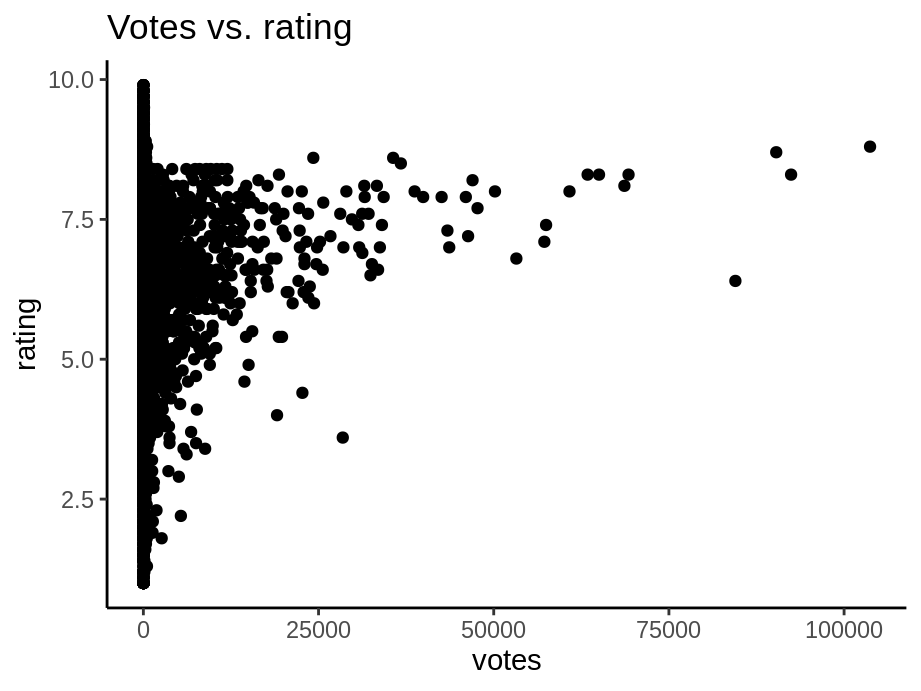
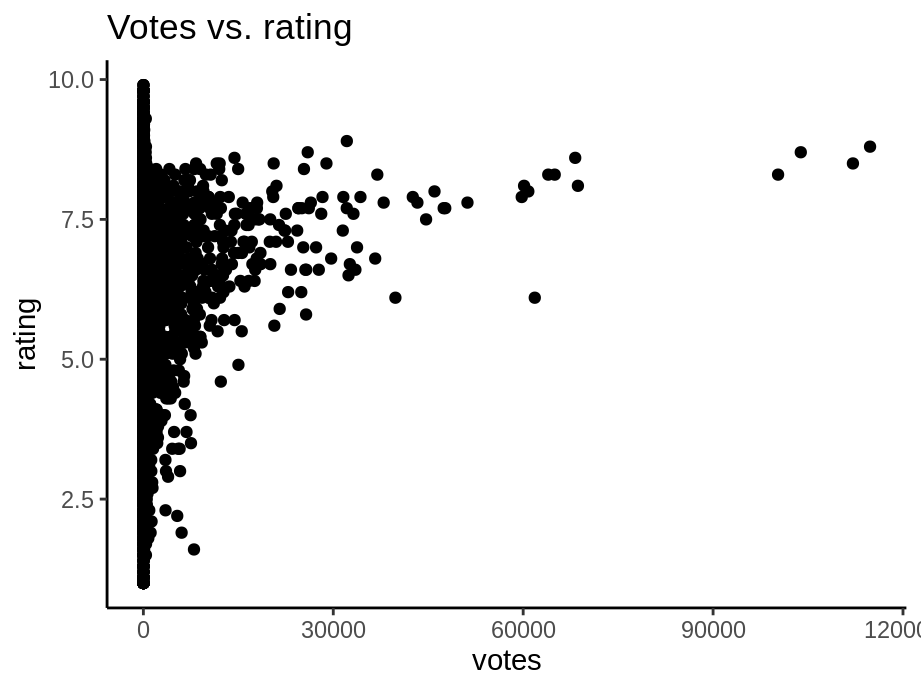
Deploying to gh-pages from @ jtr13/edav2@4376c921bf93b18e32f2f8d7158f47252f9471a0 🚀

diff --git a/two-continuous-variables.html b/two-continuous-variables.html
@@ -271,7 +271,7 @@ code span.wa { color: #60a0b0; font-weight: bold; font-style: italic; } /* Warni
 <div class="sourceCode" id="cb55"><pre class="sourceCode r"><code class="sourceCode r"><span id="cb55-1"><a href="two-continuous-variables.html#cb55-1"></a><span class="kw">library</span>(dplyr)</span>
 <span id="cb55-2"><a href="two-continuous-variables.html#cb55-2"></a><span class="kw">library</span>(ggplot2movies)</span>
 <span id="cb55-3"><a href="two-continuous-variables.html#cb55-3"></a></span>
-<span id="cb55-4"><a href="two-continuous-variables.html#cb55-4"></a>sample &lt;-<span class="st"> </span><span class="kw">sample_n</span>(movies,<span class="fl">0.2</span><span class="op">*</span><span class="kw">nrow</span>(movies))</span>
+<span id="cb55-4"><a href="two-continuous-variables.html#cb55-4"></a>sample &lt;-<span class="st"> </span><span class="kw">slice_sample</span>(movies,<span class="dt">prop=</span><span class="fl">0.2</span>)</span>
 <span id="cb55-5"><a href="two-continuous-variables.html#cb55-5"></a></span>
 <span id="cb55-6"><a href="two-continuous-variables.html#cb55-6"></a><span class="kw">ggplot</span>(sample,<span class="kw">aes</span>(<span class="dt">x=</span>votes,<span class="dt">y=</span>rating)) <span class="op">+</span></span>
 <span id="cb55-7"><a href="two-continuous-variables.html#cb55-7"></a><span class="st">  </span><span class="kw">geom_point</span>() <span class="op">+</span></span>
@@ -321,14 +321,14 @@ code span.wa { color: #60a0b0; font-weight: bold; font-style: italic; } /* Warni
 </ul>
 <div class="sourceCode" id="cb57"><pre class="sourceCode r"><code class="sourceCode r"><span id="cb57-1"><a href="two-continuous-variables.html#cb57-1"></a><span class="kw">library</span>(plotly)</span>
 <span id="cb57-2"><a href="two-continuous-variables.html#cb57-2"></a></span>
-<span id="cb57-3"><a href="two-continuous-variables.html#cb57-3"></a>sample2 &lt;-<span class="st"> </span><span class="kw">sample_n</span>(movies,<span class="fl">0.01</span><span class="op">*</span><span class="kw">nrow</span>(movies)) <span class="op">%&gt;%</span></span>
+<span id="cb57-3"><a href="two-continuous-variables.html#cb57-3"></a>sample2 &lt;-<span class="st"> </span><span class="kw">slice_sample</span>(movies,<span class="dt">prop=</span><span class="fl">0.01</span>) <span class="op">%&gt;%</span></span>
 <span id="cb57-4"><a href="two-continuous-variables.html#cb57-4"></a><span class="st">  </span><span class="kw">filter</span>(year <span class="op">&gt;</span><span class="st"> </span><span class="dv">2000</span>)</span>
 <span id="cb57-5"><a href="two-continuous-variables.html#cb57-5"></a></span>
 <span id="cb57-6"><a href="two-continuous-variables.html#cb57-6"></a><span class="kw">plot_ly</span>(sample2, <span class="dt">x =</span> <span class="op">~</span>votes, <span class="dt">y =</span> <span class="op">~</span>rating,</span>
 <span id="cb57-7"><a href="two-continuous-variables.html#cb57-7"></a>        <span class="dt">color =</span> <span class="op">~</span><span class="kw">as.factor</span>(year), <span class="dt">text=</span> <span class="op">~</span>title,</span>
 <span id="cb57-8"><a href="two-continuous-variables.html#cb57-8"></a>        <span class="dt">hoverinfo =</span> <span class="st">&#39;text&#39;</span>) </span></code></pre></div>
 <div id="htmlwidget-8d30fee997fafa49e2e7" style="width:576px;height:432px;" class="plotly html-widget"></div>
-<script type="application/json" data-for="htmlwidget-8d30fee997fafa49e2e7">{"x":{"visdat":{"28bd7a15e770":["function () ","plotlyVisDat"]},"cur_data":"28bd7a15e770","attrs":{"28bd7a15e770":{"x":{},"y":{},"text":{},"hoverinfo":"text","color":{},"alpha_stroke":1,"sizes":[10,100],"spans":[1,20]}},"layout":{"margin":{"b":40,"l":60,"t":25,"r":10},"xaxis":{"domain":[0,1],"automargin":true,"title":"votes"},"yaxis":{"domain":[0,1],"automargin":true,"title":"rating"},"hovermode":"closest","showlegend":true},"source":"A","config":{"modeBarButtonsToAdd":["hoverclosest","hovercompare"],"showSendToCloud":false},"data":[{"x":[12,26,6,7,42,60,73,18,311,59,37,37,11,12,11,115,47,14,219],"y":[6.4,5.9,5.7,6.6,6.3,4.5,6.9,8.3,1.8,6.3,3.2,3.3,8.7,8.4,6.6,3.7,6.9,8.6,6],"text":["On the Fringe","Altyn Kyrghol","Guggen - Du store gauda","Georgie Girl","Abrafaxe - Unter schwarzer Flagge, Die","Un aller simple","Flock, The","Hr. Boe & Co.'s Anxiety","Ponterosa","Ngo dik yeh man tung hok","Bug Off!","We Sold Our Souls for Rock 'n Roll","Ladyporn","My Dark Days","Delitto impossibile, Un","Killer Bud","Cutting Room, The","Echo","Last Minute, The"],"hoverinfo":["text","text","text","text","text","text","text","text","text","text","text","text","text","text","text","text","text","text","text"],"type":"scatter","mode":"markers","name":"2001","marker":{"color":"rgba(102,194,165,1)","line":{"color":"rgba(102,194,165,1)"}},"textfont":{"color":"rgba(102,194,165,1)"},"error_y":{"color":"rgba(102,194,165,1)"},"error_x":{"color":"rgba(102,194,165,1)"},"line":{"color":"rgba(102,194,165,1)"},"xaxis":"x","yaxis":"y","frame":null},{"x":[8,22,243,62,29,232,48,93,1250,13,34,90,1730],"y":[6.2,5.6,6.9,7.4,5.1,6.7,4.8,4.7,5.4,6.8,7.6,6.8,6.7],"text":["Love Is a Treasure","Chinese muur, De","Shin jingi no hakaba","Tomorrow La Scala!","Legend of Razorback, The","Imbalsamatore, L'","Expecting","Wish You Were Dead","All About the Benjamins","Condemned","Soap Girl","Telling Nicholas","Returner"],"hoverinfo":["text","text","text","text","text","text","text","text","text","text","text","text","text"],"type":"scatter","mode":"markers","name":"2002","marker":{"color":"rgba(252,141,98,1)","line":{"color":"rgba(252,141,98,1)"}},"textfont":{"color":"rgba(252,141,98,1)"},"error_y":{"color":"rgba(252,141,98,1)"},"error_x":{"color":"rgba(252,141,98,1)"},"line":{"color":"rgba(252,141,98,1)"},"xaxis":"x","yaxis":"y","frame":null},{"x":[1213,13,8,12,5,1295,8,8,35,27,24,21,25,5,58,90,939,9,43],"y":[6.1,6.9,5.2,5.5,6.4,5.7,6.7,8,4.7,5,6,7.3,7.7,8.9,4.2,4.2,7.4,6.2,5.7],"text":["Sylvia","Pull Out","Corner of Your Eye","Libiomfi","Good Boy","It's All About Love","Cameras Take Five","Aviv","Honeymooners, The","Hoodlum & Son","Teoriya zapoya","Wo he ba ba","Colorforms","Night Light","Bloom","Claustrophobia","Van God Los","Tancul","Yeokjeone sanda"],"hoverinfo":["text","text","text","text","text","text","text","text","text","text","text","text","text","text","text","text","text","text","text"],"type":"scatter","mode":"markers","name":"2003","marker":{"color":"rgba(141,160,203,1)","line":{"color":"rgba(141,160,203,1)"}},"textfont":{"color":"rgba(141,160,203,1)"},"error_y":{"color":"rgba(141,160,203,1)"},"error_x":{"color":"rgba(141,160,203,1)"},"line":{"color":"rgba(141,160,203,1)"},"xaxis":"x","yaxis":"y","frame":null},{"x":[5,64,2349,6,610,8,7,45,13,8,6,29,165,208,3492,2398,25],"y":[8.8,6.9,5.7,8.8,6,5.5,7.6,1.7,7.4,7.8,5.7,6.4,6.3,5.1,6,5.7,6.8],"text":["In Justice","Nomi Song, The","Laws of Attraction","Life and Times of MC Beer Bong, The","Ginger Snaps Back: The Beginning","Camp X-Ray: Ghosts of Guantanamo","Alanis Morissette: We're with the Band","Death 4 Told","Hochbetrieb","Old Man and the Studio, The","Huapango","Cou de la girafe, Le","06/05","Romasanta","Alfie","Raising Helen","Sombra dolorosa"],"hoverinfo":["text","text","text","text","text","text","text","text","text","text","text","text","text","text","text","text","text"],"type":"scatter","mode":"markers","name":"2004","marker":{"color":"rgba(231,138,195,1)","line":{"color":"rgba(231,138,195,1)"}},"textfont":{"color":"rgba(231,138,195,1)"},"error_y":{"color":"rgba(231,138,195,1)"},"error_x":{"color":"rgba(231,138,195,1)"},"line":{"color":"rgba(231,138,195,1)"},"xaxis":"x","yaxis":"y","frame":null},{"x":[6,10,15],"y":[6.7,7.7,5.1],"text":["Year of Living Vicariously, The","Bloodshed","Chicken Tikka Masala"],"hoverinfo":["text","text","text"],"type":"scatter","mode":"markers","name":"2005","marker":{"color":"rgba(166,216,84,1)","line":{"color":"rgba(166,216,84,1)"}},"textfont":{"color":"rgba(166,216,84,1)"},"error_y":{"color":"rgba(166,216,84,1)"},"error_x":{"color":"rgba(166,216,84,1)"},"line":{"color":"rgba(166,216,84,1)"},"xaxis":"x","yaxis":"y","frame":null}],"highlight":{"on":"plotly_click","persistent":false,"dynamic":false,"selectize":false,"opacityDim":0.2,"selected":{"opacity":1},"debounce":0},"shinyEvents":["plotly_hover","plotly_click","plotly_selected","plotly_relayout","plotly_brushed","plotly_brushing","plotly_clickannotation","plotly_doubleclick","plotly_deselect","plotly_afterplot","plotly_sunburstclick"],"base_url":"https://plot.ly"},"evals":[],"jsHooks":[]}</script>
+<script type="application/json" data-for="htmlwidget-8d30fee997fafa49e2e7">{"x":{"visdat":{"28186f8204b":["function () ","plotlyVisDat"]},"cur_data":"28186f8204b","attrs":{"28186f8204b":{"x":{},"y":{},"text":{},"hoverinfo":"text","color":{},"alpha_stroke":1,"sizes":[10,100],"spans":[1,20]}},"layout":{"margin":{"b":40,"l":60,"t":25,"r":10},"xaxis":{"domain":[0,1],"automargin":true,"title":"votes"},"yaxis":{"domain":[0,1],"automargin":true,"title":"rating"},"hovermode":"closest","showlegend":true},"source":"A","config":{"modeBarButtonsToAdd":["hoverclosest","hovercompare"],"showSendToCloud":false},"data":[{"x":[12,26,6,7,42,60,73,18,311,59,37,37,11,12,11,115,47,14,219],"y":[6.4,5.9,5.7,6.6,6.3,4.5,6.9,8.3,1.8,6.3,3.2,3.3,8.7,8.4,6.6,3.7,6.9,8.6,6],"text":["On the Fringe","Altyn Kyrghol","Guggen - Du store gauda","Georgie Girl","Abrafaxe - Unter schwarzer Flagge, Die","Un aller simple","Flock, The","Hr. Boe & Co.'s Anxiety","Ponterosa","Ngo dik yeh man tung hok","Bug Off!","We Sold Our Souls for Rock 'n Roll","Ladyporn","My Dark Days","Delitto impossibile, Un","Killer Bud","Cutting Room, The","Echo","Last Minute, The"],"hoverinfo":["text","text","text","text","text","text","text","text","text","text","text","text","text","text","text","text","text","text","text"],"type":"scatter","mode":"markers","name":"2001","marker":{"color":"rgba(102,194,165,1)","line":{"color":"rgba(102,194,165,1)"}},"textfont":{"color":"rgba(102,194,165,1)"},"error_y":{"color":"rgba(102,194,165,1)"},"error_x":{"color":"rgba(102,194,165,1)"},"line":{"color":"rgba(102,194,165,1)"},"xaxis":"x","yaxis":"y","frame":null},{"x":[8,22,243,62,29,232,48,93,1250,13,34,90,1730],"y":[6.2,5.6,6.9,7.4,5.1,6.7,4.8,4.7,5.4,6.8,7.6,6.8,6.7],"text":["Love Is a Treasure","Chinese muur, De","Shin jingi no hakaba","Tomorrow La Scala!","Legend of Razorback, The","Imbalsamatore, L'","Expecting","Wish You Were Dead","All About the Benjamins","Condemned","Soap Girl","Telling Nicholas","Returner"],"hoverinfo":["text","text","text","text","text","text","text","text","text","text","text","text","text"],"type":"scatter","mode":"markers","name":"2002","marker":{"color":"rgba(252,141,98,1)","line":{"color":"rgba(252,141,98,1)"}},"textfont":{"color":"rgba(252,141,98,1)"},"error_y":{"color":"rgba(252,141,98,1)"},"error_x":{"color":"rgba(252,141,98,1)"},"line":{"color":"rgba(252,141,98,1)"},"xaxis":"x","yaxis":"y","frame":null},{"x":[1213,13,8,12,5,1295,8,8,35,27,24,21,25,5,58,90,939,9,43],"y":[6.1,6.9,5.2,5.5,6.4,5.7,6.7,8,4.7,5,6,7.3,7.7,8.9,4.2,4.2,7.4,6.2,5.7],"text":["Sylvia","Pull Out","Corner of Your Eye","Libiomfi","Good Boy","It's All About Love","Cameras Take Five","Aviv","Honeymooners, The","Hoodlum & Son","Teoriya zapoya","Wo he ba ba","Colorforms","Night Light","Bloom","Claustrophobia","Van God Los","Tancul","Yeokjeone sanda"],"hoverinfo":["text","text","text","text","text","text","text","text","text","text","text","text","text","text","text","text","text","text","text"],"type":"scatter","mode":"markers","name":"2003","marker":{"color":"rgba(141,160,203,1)","line":{"color":"rgba(141,160,203,1)"}},"textfont":{"color":"rgba(141,160,203,1)"},"error_y":{"color":"rgba(141,160,203,1)"},"error_x":{"color":"rgba(141,160,203,1)"},"line":{"color":"rgba(141,160,203,1)"},"xaxis":"x","yaxis":"y","frame":null},{"x":[5,64,2349,6,610,8,7,45,13,8,6,29,165,208,3492,2398,25],"y":[8.8,6.9,5.7,8.8,6,5.5,7.6,1.7,7.4,7.8,5.7,6.4,6.3,5.1,6,5.7,6.8],"text":["In Justice","Nomi Song, The","Laws of Attraction","Life and Times of MC Beer Bong, The","Ginger Snaps Back: The Beginning","Camp X-Ray: Ghosts of Guantanamo","Alanis Morissette: We're with the Band","Death 4 Told","Hochbetrieb","Old Man and the Studio, The","Huapango","Cou de la girafe, Le","06/05","Romasanta","Alfie","Raising Helen","Sombra dolorosa"],"hoverinfo":["text","text","text","text","text","text","text","text","text","text","text","text","text","text","text","text","text"],"type":"scatter","mode":"markers","name":"2004","marker":{"color":"rgba(231,138,195,1)","line":{"color":"rgba(231,138,195,1)"}},"textfont":{"color":"rgba(231,138,195,1)"},"error_y":{"color":"rgba(231,138,195,1)"},"error_x":{"color":"rgba(231,138,195,1)"},"line":{"color":"rgba(231,138,195,1)"},"xaxis":"x","yaxis":"y","frame":null},{"x":[6,10,15],"y":[6.7,7.7,5.1],"text":["Year of Living Vicariously, The","Bloodshed","Chicken Tikka Masala"],"hoverinfo":["text","text","text"],"type":"scatter","mode":"markers","name":"2005","marker":{"color":"rgba(166,216,84,1)","line":{"color":"rgba(166,216,84,1)"}},"textfont":{"color":"rgba(166,216,84,1)"},"error_y":{"color":"rgba(166,216,84,1)"},"error_x":{"color":"rgba(166,216,84,1)"},"line":{"color":"rgba(166,216,84,1)"},"xaxis":"x","yaxis":"y","frame":null}],"highlight":{"on":"plotly_click","persistent":false,"dynamic":false,"selectize":false,"opacityDim":0.2,"selected":{"opacity":1},"debounce":0},"shinyEvents":["plotly_hover","plotly_click","plotly_selected","plotly_relayout","plotly_brushed","plotly_brushing","plotly_clickannotation","plotly_doubleclick","plotly_deselect","plotly_afterplot","plotly_sunburstclick"],"base_url":"https://plot.ly"},"evals":[],"jsHooks":[]}</script>
 </div>
 <div id="modifications" class="section level3">
 <h3><span class="header-section-number">8.1.4</span> Modifications</h3>
@@ -349,7 +349,7 @@ code span.wa { color: #60a0b0; font-weight: bold; font-style: italic; } /* Warni
 <p>If you want to compare multiple parameters to each other, consider using a scatterplot matrix. This will allow you to show many comparisons in a compact and efficient manner.</p>
 <p>For these scatterplot matrices, we use the <code>movies</code> dataset from the <code>ggplot2movies</code> package.</p>
 <p>As a default, the base R plot() function will create a scatterplot matrix when given multiple variables:</p>
-<div class="sourceCode" id="cb59"><pre class="sourceCode r"><code class="sourceCode r"><span id="cb59-1"><a href="two-continuous-variables.html#cb59-1"></a>sample3 &lt;-<span class="st"> </span><span class="kw">sample_n</span>(movies, <span class="fl">0.01</span><span class="op">*</span><span class="kw">nrow</span>(movies)) <span class="co">#sample data</span></span>
+<div class="sourceCode" id="cb59"><pre class="sourceCode r"><code class="sourceCode r"><span id="cb59-1"><a href="two-continuous-variables.html#cb59-1"></a>sample3 &lt;-<span class="st"> </span><span class="kw">slice_sample</span>(movies,<span class="dt">prop=</span><span class="fl">0.01</span>) <span class="co">#sample data</span></span>
 <span id="cb59-2"><a href="two-continuous-variables.html#cb59-2"></a></span>
 <span id="cb59-3"><a href="two-continuous-variables.html#cb59-3"></a>splomvar &lt;-<span class="st"> </span>sample3 <span class="op">%&gt;%</span><span class="st"> </span></span>
 <span id="cb59-4"><a href="two-continuous-variables.html#cb59-4"></a><span class="st">  </span>dplyr<span class="op">::</span><span class="kw">select</span>(length, budget, votes, rating, year)</span>

diff --git a/two_continuous_var.md b/two_continuous_var.md
@@ -32,7 +32,7 @@ In some situations a scatter plot faces the problem of overplotting as there are
 library(dplyr)
 library(ggplot2movies)
 
-sample <- sample_n(movies,0.2*nrow(movies))
+sample <- slice_sample(movies,prop=0.2)
 
 ggplot(sample,aes(x=votes,y=rating)) +
   geom_point() +
@@ -97,7 +97,7 @@ You can create an interactive scatterplot using `plotly`. In the following examp
 ```r
 library(plotly)
 
-sample2 <- sample_n(movies,0.01*nrow(movies)) %>%
+sample2 <- slice_sample(movies,prop=0.01) %>%
   filter(year > 2000)
 
 plot_ly(sample2, x = ~votes, y = ~rating,
@@ -107,7 +107,7 @@ plot_ly(sample2, x = ~votes, y = ~rating,
 
 ```{=html}
 <div id="htmlwidget-8d30fee997fafa49e2e7" style="width:576px;height:432px;" class="plotly html-widget"></div>
-<script type="application/json" data-for="htmlwidget-8d30fee997fafa49e2e7">{"x":{"visdat":{"28bd7a15e770":["function () ","plotlyVisDat"]},"cur_data":"28bd7a15e770","attrs":{"28bd7a15e770":{"x":{},"y":{},"text":{},"hoverinfo":"text","color":{},"alpha_stroke":1,"sizes":[10,100],"spans":[1,20]}},"layout":{"margin":{"b":40,"l":60,"t":25,"r":10},"xaxis":{"domain":[0,1],"automargin":true,"title":"votes"},"yaxis":{"domain":[0,1],"automargin":true,"title":"rating"},"hovermode":"closest","showlegend":true},"source":"A","config":{"modeBarButtonsToAdd":["hoverclosest","hovercompare"],"showSendToCloud":false},"data":[{"x":[12,26,6,7,42,60,73,18,311,59,37,37,11,12,11,115,47,14,219],"y":[6.4,5.9,5.7,6.6,6.3,4.5,6.9,8.3,1.8,6.3,3.2,3.3,8.7,8.4,6.6,3.7,6.9,8.6,6],"text":["On the Fringe","Altyn Kyrghol","Guggen - Du store gauda","Georgie Girl","Abrafaxe - Unter schwarzer Flagge, Die","Un aller simple","Flock, The","Hr. Boe & Co.'s Anxiety","Ponterosa","Ngo dik yeh man tung hok","Bug Off!","We Sold Our Souls for Rock 'n Roll","Ladyporn","My Dark Days","Delitto impossibile, Un","Killer Bud","Cutting Room, The","Echo","Last Minute, The"],"hoverinfo":["text","text","text","text","text","text","text","text","text","text","text","text","text","text","text","text","text","text","text"],"type":"scatter","mode":"markers","name":"2001","marker":{"color":"rgba(102,194,165,1)","line":{"color":"rgba(102,194,165,1)"}},"textfont":{"color":"rgba(102,194,165,1)"},"error_y":{"color":"rgba(102,194,165,1)"},"error_x":{"color":"rgba(102,194,165,1)"},"line":{"color":"rgba(102,194,165,1)"},"xaxis":"x","yaxis":"y","frame":null},{"x":[8,22,243,62,29,232,48,93,1250,13,34,90,1730],"y":[6.2,5.6,6.9,7.4,5.1,6.7,4.8,4.7,5.4,6.8,7.6,6.8,6.7],"text":["Love Is a Treasure","Chinese muur, De","Shin jingi no hakaba","Tomorrow La Scala!","Legend of Razorback, The","Imbalsamatore, L'","Expecting","Wish You Were Dead","All About the Benjamins","Condemned","Soap Girl","Telling Nicholas","Returner"],"hoverinfo":["text","text","text","text","text","text","text","text","text","text","text","text","text"],"type":"scatter","mode":"markers","name":"2002","marker":{"color":"rgba(252,141,98,1)","line":{"color":"rgba(252,141,98,1)"}},"textfont":{"color":"rgba(252,141,98,1)"},"error_y":{"color":"rgba(252,141,98,1)"},"error_x":{"color":"rgba(252,141,98,1)"},"line":{"color":"rgba(252,141,98,1)"},"xaxis":"x","yaxis":"y","frame":null},{"x":[1213,13,8,12,5,1295,8,8,35,27,24,21,25,5,58,90,939,9,43],"y":[6.1,6.9,5.2,5.5,6.4,5.7,6.7,8,4.7,5,6,7.3,7.7,8.9,4.2,4.2,7.4,6.2,5.7],"text":["Sylvia","Pull Out","Corner of Your Eye","Libiomfi","Good Boy","It's All About Love","Cameras Take Five","Aviv","Honeymooners, The","Hoodlum & Son","Teoriya zapoya","Wo he ba ba","Colorforms","Night Light","Bloom","Claustrophobia","Van God Los","Tancul","Yeokjeone sanda"],"hoverinfo":["text","text","text","text","text","text","text","text","text","text","text","text","text","text","text","text","text","text","text"],"type":"scatter","mode":"markers","name":"2003","marker":{"color":"rgba(141,160,203,1)","line":{"color":"rgba(141,160,203,1)"}},"textfont":{"color":"rgba(141,160,203,1)"},"error_y":{"color":"rgba(141,160,203,1)"},"error_x":{"color":"rgba(141,160,203,1)"},"line":{"color":"rgba(141,160,203,1)"},"xaxis":"x","yaxis":"y","frame":null},{"x":[5,64,2349,6,610,8,7,45,13,8,6,29,165,208,3492,2398,25],"y":[8.8,6.9,5.7,8.8,6,5.5,7.6,1.7,7.4,7.8,5.7,6.4,6.3,5.1,6,5.7,6.8],"text":["In Justice","Nomi Song, The","Laws of Attraction","Life and Times of MC Beer Bong, The","Ginger Snaps Back: The Beginning","Camp X-Ray: Ghosts of Guantanamo","Alanis Morissette: We're with the Band","Death 4 Told","Hochbetrieb","Old Man and the Studio, The","Huapango","Cou de la girafe, Le","06/05","Romasanta","Alfie","Raising Helen","Sombra dolorosa"],"hoverinfo":["text","text","text","text","text","text","text","text","text","text","text","text","text","text","text","text","text"],"type":"scatter","mode":"markers","name":"2004","marker":{"color":"rgba(231,138,195,1)","line":{"color":"rgba(231,138,195,1)"}},"textfont":{"color":"rgba(231,138,195,1)"},"error_y":{"color":"rgba(231,138,195,1)"},"error_x":{"color":"rgba(231,138,195,1)"},"line":{"color":"rgba(231,138,195,1)"},"xaxis":"x","yaxis":"y","frame":null},{"x":[6,10,15],"y":[6.7,7.7,5.1],"text":["Year of Living Vicariously, The","Bloodshed","Chicken Tikka Masala"],"hoverinfo":["text","text","text"],"type":"scatter","mode":"markers","name":"2005","marker":{"color":"rgba(166,216,84,1)","line":{"color":"rgba(166,216,84,1)"}},"textfont":{"color":"rgba(166,216,84,1)"},"error_y":{"color":"rgba(166,216,84,1)"},"error_x":{"color":"rgba(166,216,84,1)"},"line":{"color":"rgba(166,216,84,1)"},"xaxis":"x","yaxis":"y","frame":null}],"highlight":{"on":"plotly_click","persistent":false,"dynamic":false,"selectize":false,"opacityDim":0.2,"selected":{"opacity":1},"debounce":0},"shinyEvents":["plotly_hover","plotly_click","plotly_selected","plotly_relayout","plotly_brushed","plotly_brushing","plotly_clickannotation","plotly_doubleclick","plotly_deselect","plotly_afterplot","plotly_sunburstclick"],"base_url":"https://plot.ly"},"evals":[],"jsHooks":[]}</script>
+<script type="application/json" data-for="htmlwidget-8d30fee997fafa49e2e7">{"x":{"visdat":{"28186f8204b":["function () ","plotlyVisDat"]},"cur_data":"28186f8204b","attrs":{"28186f8204b":{"x":{},"y":{},"text":{},"hoverinfo":"text","color":{},"alpha_stroke":1,"sizes":[10,100],"spans":[1,20]}},"layout":{"margin":{"b":40,"l":60,"t":25,"r":10},"xaxis":{"domain":[0,1],"automargin":true,"title":"votes"},"yaxis":{"domain":[0,1],"automargin":true,"title":"rating"},"hovermode":"closest","showlegend":true},"source":"A","config":{"modeBarButtonsToAdd":["hoverclosest","hovercompare"],"showSendToCloud":false},"data":[{"x":[12,26,6,7,42,60,73,18,311,59,37,37,11,12,11,115,47,14,219],"y":[6.4,5.9,5.7,6.6,6.3,4.5,6.9,8.3,1.8,6.3,3.2,3.3,8.7,8.4,6.6,3.7,6.9,8.6,6],"text":["On the Fringe","Altyn Kyrghol","Guggen - Du store gauda","Georgie Girl","Abrafaxe - Unter schwarzer Flagge, Die","Un aller simple","Flock, The","Hr. Boe & Co.'s Anxiety","Ponterosa","Ngo dik yeh man tung hok","Bug Off!","We Sold Our Souls for Rock 'n Roll","Ladyporn","My Dark Days","Delitto impossibile, Un","Killer Bud","Cutting Room, The","Echo","Last Minute, The"],"hoverinfo":["text","text","text","text","text","text","text","text","text","text","text","text","text","text","text","text","text","text","text"],"type":"scatter","mode":"markers","name":"2001","marker":{"color":"rgba(102,194,165,1)","line":{"color":"rgba(102,194,165,1)"}},"textfont":{"color":"rgba(102,194,165,1)"},"error_y":{"color":"rgba(102,194,165,1)"},"error_x":{"color":"rgba(102,194,165,1)"},"line":{"color":"rgba(102,194,165,1)"},"xaxis":"x","yaxis":"y","frame":null},{"x":[8,22,243,62,29,232,48,93,1250,13,34,90,1730],"y":[6.2,5.6,6.9,7.4,5.1,6.7,4.8,4.7,5.4,6.8,7.6,6.8,6.7],"text":["Love Is a Treasure","Chinese muur, De","Shin jingi no hakaba","Tomorrow La Scala!","Legend of Razorback, The","Imbalsamatore, L'","Expecting","Wish You Were Dead","All About the Benjamins","Condemned","Soap Girl","Telling Nicholas","Returner"],"hoverinfo":["text","text","text","text","text","text","text","text","text","text","text","text","text"],"type":"scatter","mode":"markers","name":"2002","marker":{"color":"rgba(252,141,98,1)","line":{"color":"rgba(252,141,98,1)"}},"textfont":{"color":"rgba(252,141,98,1)"},"error_y":{"color":"rgba(252,141,98,1)"},"error_x":{"color":"rgba(252,141,98,1)"},"line":{"color":"rgba(252,141,98,1)"},"xaxis":"x","yaxis":"y","frame":null},{"x":[1213,13,8,12,5,1295,8,8,35,27,24,21,25,5,58,90,939,9,43],"y":[6.1,6.9,5.2,5.5,6.4,5.7,6.7,8,4.7,5,6,7.3,7.7,8.9,4.2,4.2,7.4,6.2,5.7],"text":["Sylvia","Pull Out","Corner of Your Eye","Libiomfi","Good Boy","It's All About Love","Cameras Take Five","Aviv","Honeymooners, The","Hoodlum & Son","Teoriya zapoya","Wo he ba ba","Colorforms","Night Light","Bloom","Claustrophobia","Van God Los","Tancul","Yeokjeone sanda"],"hoverinfo":["text","text","text","text","text","text","text","text","text","text","text","text","text","text","text","text","text","text","text"],"type":"scatter","mode":"markers","name":"2003","marker":{"color":"rgba(141,160,203,1)","line":{"color":"rgba(141,160,203,1)"}},"textfont":{"color":"rgba(141,160,203,1)"},"error_y":{"color":"rgba(141,160,203,1)"},"error_x":{"color":"rgba(141,160,203,1)"},"line":{"color":"rgba(141,160,203,1)"},"xaxis":"x","yaxis":"y","frame":null},{"x":[5,64,2349,6,610,8,7,45,13,8,6,29,165,208,3492,2398,25],"y":[8.8,6.9,5.7,8.8,6,5.5,7.6,1.7,7.4,7.8,5.7,6.4,6.3,5.1,6,5.7,6.8],"text":["In Justice","Nomi Song, The","Laws of Attraction","Life and Times of MC Beer Bong, The","Ginger Snaps Back: The Beginning","Camp X-Ray: Ghosts of Guantanamo","Alanis Morissette: We're with the Band","Death 4 Told","Hochbetrieb","Old Man and the Studio, The","Huapango","Cou de la girafe, Le","06/05","Romasanta","Alfie","Raising Helen","Sombra dolorosa"],"hoverinfo":["text","text","text","text","text","text","text","text","text","text","text","text","text","text","text","text","text"],"type":"scatter","mode":"markers","name":"2004","marker":{"color":"rgba(231,138,195,1)","line":{"color":"rgba(231,138,195,1)"}},"textfont":{"color":"rgba(231,138,195,1)"},"error_y":{"color":"rgba(231,138,195,1)"},"error_x":{"color":"rgba(231,138,195,1)"},"line":{"color":"rgba(231,138,195,1)"},"xaxis":"x","yaxis":"y","frame":null},{"x":[6,10,15],"y":[6.7,7.7,5.1],"text":["Year of Living Vicariously, The","Bloodshed","Chicken Tikka Masala"],"hoverinfo":["text","text","text"],"type":"scatter","mode":"markers","name":"2005","marker":{"color":"rgba(166,216,84,1)","line":{"color":"rgba(166,216,84,1)"}},"textfont":{"color":"rgba(166,216,84,1)"},"error_y":{"color":"rgba(166,216,84,1)"},"error_x":{"color":"rgba(166,216,84,1)"},"line":{"color":"rgba(166,216,84,1)"},"xaxis":"x","yaxis":"y","frame":null}],"highlight":{"on":"plotly_click","persistent":false,"dynamic":false,"selectize":false,"opacityDim":0.2,"selected":{"opacity":1},"debounce":0},"shinyEvents":["plotly_hover","plotly_click","plotly_selected","plotly_relayout","plotly_brushed","plotly_brushing","plotly_clickannotation","plotly_doubleclick","plotly_deselect","plotly_afterplot","plotly_sunburstclick"],"base_url":"https://plot.ly"},"evals":[],"jsHooks":[]}</script>
 ```
 ### Modifications
 
@@ -141,7 +141,7 @@ As a default, the base R plot() function will create a scatterplot matrix when g
 
 
 ```r
-sample3 <- sample_n(movies, 0.01*nrow(movies)) #sample data
+sample3 <- slice_sample(movies,prop=0.01) #sample data
 
 splomvar <- sample3 %>% 
   dplyr::select(length, budget, votes, rating, year)
